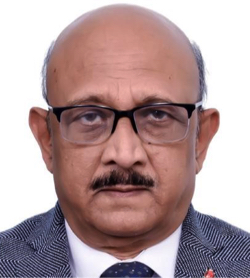
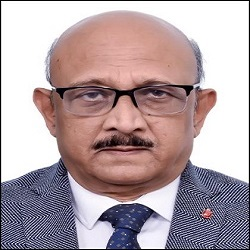
final update

diff --git a/index.html b/index.html
@@ -189,7 +189,7 @@
 
 <div class="col-lg-4 col-md-6">
             <div class="speaker" data-aos="fade-up" data-aos-delay="100">
-              <img src="assets/img/speakers/speaker.png" alt="Speaker 1" class="img-fluid" >
+              <img src="assets/img/speakers/Krishnan.jpg" alt="Speaker 1" class="img-fluid" >
               <div class="details">
                 <h3>Prof. Lata A. Krishnan</h3>
                 
@@ -202,7 +202,7 @@
 
           <div class="col-lg-4 col-md-6">
             <div class="speaker" data-aos="fade-up" data-aos-delay="100">
-              <img src="assets/img/speakers/speaker.png" alt="Speaker 1" class="img-fluid" >
+              <img src="assets/img/speakers/Pushpavathi.jpg" alt="Speaker 1" class="img-fluid" >
               <div class="details">
                 <h3>Prof. M. Pushpavathi</h3>
                 
@@ -218,7 +218,7 @@
 
          <div class="col-lg-4 col-md-6">
             <div class="speaker" data-aos="fade-up" data-aos-delay="100">
-              <img src="assets/img/speakers/speaker.png" alt="Speaker 1" class="img-fluid" >
+              <img src="assets/img/speakers/Pamplona.jpg" alt="Speaker 1" class="img-fluid" >
               <div class="details">
                 <h3>Dr. Carmen Pamplona</h3>
                 
@@ -302,7 +302,7 @@
         
           <div class="col-lg-4 col-md-6">
             <div class="speaker" data-aos="fade-up" data-aos-delay="100">
-              <img src="assets/img/speakers/speaker.png" alt="Speaker 1" class="img-fluid" >
+              <img src="assets/img/speakers/Chithra.jpg" alt="Speaker 1" class="img-fluid" >
               <div class="details">
                 <h3>Ms. Chitra Thadathil</h3>
                 
@@ -331,7 +331,7 @@
 
           <div class="col-lg-4 col-md-6">
             <div class="speaker" data-aos="fade-up" data-aos-delay="100">
-              <img src="assets/img/speakers/speaker.png" alt="Speaker 2" class="img-fluid" >
+              <img src="assets/img/speakers/Aparna.jpg" alt="Speaker 2" class="img-fluid" >
               <div class="details">
                 <h3>Dr. Aparna V S</h3>
                 
@@ -370,7 +370,7 @@
         
           <div class="col-lg-4 col-md-6">
             <div class="speaker" data-aos="fade-up" data-aos-delay="100">
-              <img src="assets/img/speakers/speaker.png" alt="Speaker 1" class="img-fluid" >
+              <img src="assets/img/speakers/Ankitha.jpg" alt="Speaker 1" class="img-fluid" >
               <div class="details">
                 <h3>Ms. Ankita Bhutada</h3>
                
@@ -772,7 +772,7 @@
               </div>
               <h3><a href="https://www.google.com/search?q=Uday+Residency&sxsrf=ALiCzsarnWd-sJYq5IMZpy6IpFsHUu0gHg%3A1655703925358&ei=dQmwYsi9Ffju4-EPovy8mAE&hotel_occupancy=2&ved=0ahUKEwiIzMviqbv4AhV49zgGHSI-DxMQ4dUDCA4&uact=5&oq=Uday+Residency&gs_lcp=Cgdnd3Mtd2l6EAMyBQgAEIAEMgsILhCABBDHARCvATIKCAAQgAQQhwIQFDILCC4QgAQQxwEQrwEyCwguEIAEEMcBEK8BMgsILhCABBDHARCvATIKCAAQgAQQhwIQFDILCC4QgAQQxwEQrwFKBAhBGABKBAhGGABQAFgAYJcHaABwAXgAgAGMAYgBjAGSAQMwLjGYAQCgAQKgAQHAAQE&sclient=gws-wiz" target="_blank">Uday Residency </a></h3>
              
-              <p>0.5 Mile from the Venue</p>
+              <p>6.5km  from the Venue</p>
             </div>
           </div>
         
@@ -961,26 +961,28 @@
 
   <section id="sponsers" class="section-bg">
 
-      <div class="container" data-aos="fade-up">
+      <div class="container">
         <div class="section-header">
           <h2>Organisers</h2>
            </div>
         <div class="row contact-info">
+          
+          <div class="col-md-4">
+            <div class="contact-phone">
+              <img src="assets/img/sjd.png" >
+            </div>
+          </div>
+                    
           <div class="col-md-4">
             <div class="contact-address">
               <img src="assets/img/gov.png">
             </div>
           </div>
 
-          <div class="col-md-4">
-            <div class="contact-phone">
-              <img src="assets/img/sjdlogo.png" >
-            </div>
-          </div>
-
+         
           <div class="col-md-4">
             <div class="contact-email">
-              <img src="assets/img/nishlogo.png" >
+              <img src="assets/img/nish.jpg" >
             </div>
           </div>
 
